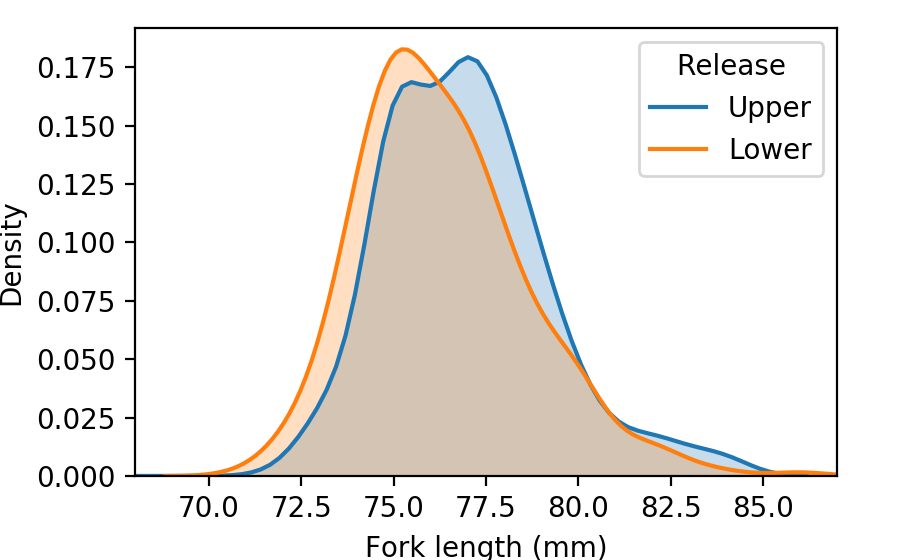
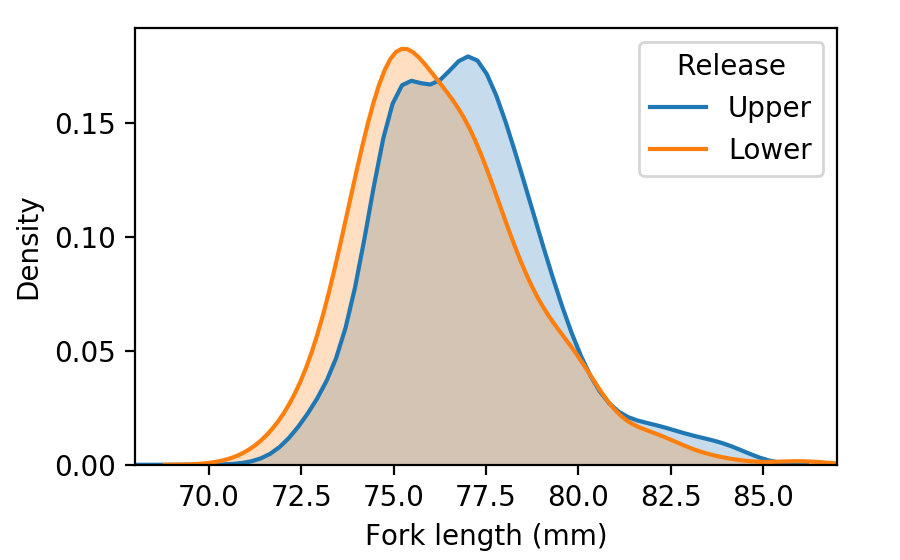
Figure tweaks

diff --git a/manuscripts/swimming/fig-study-area/fig_study_area.py b/manuscripts/swimming/fig-study-area/fig_study_area.py
@@ -9,20 +9,26 @@ Study area figure
   Distance scale - done
 """
 from stompy import utils
-from stompy.spatial import field, wkb2shp
+from stompy.spatial import field, wkb2shp, proj_utils
 import stompy.plot.cmap as scmap
 from stompy.plot import plot_wkb, plot_utils
 from stompy.grid import unstructured_grid
 import pandas as pd
 import matplotlib.pyplot as plt
+from matplotlib import cm
 import numpy as np
+from shapely import ops
 ##
 
-cm_topobathy=scmap.load_gradient('BlueYellowRed.cpt')
+upper_ll=[-120.930408, 37.309940]
+lower_ll=[-121.271098, 37.691794]
+release_xy=proj_utils.mapper('WGS84','EPSG:26910')( [upper_ll,lower_ll] )
+
+    
 
 ##
 
-dem_mrg=field.MultiRasterField(["../../../bathy/junction-composite-dem-no_adcp.tif",
+dem_mrg=field.MultiRasterField(["../../../bathy/junction-composite-20200605-w_smooth.tif",
                                 "/home/rusty/data/bathy_dwr/gtiff/dem_bay_delta_10m_v3_20121109_2.tif"])
 clip=(646390., 648336., 4184677., 4187210.)
 dem=dem_mrg.extract_tile(clip)
@@ -34,7 +40,8 @@ aerial.F=aerial.F[:,:,:3] # drop alpha - seems mis-scaled
 
 ##
 
-grid=unstructured_grid.UnstructuredGrid.read_ugrid("../../../model/grid/snubby_junction/snubby-06.nc")
+#grid=unstructured_grid.UnstructuredGrid.read_ugrid("../../../model/grid/snubby_junction/snubby-06.nc")
+grid=unstructured_grid.UnstructuredGrid.read_ugrid("../../../model/suntans/snubby-08-edit60-with_bathysmooth.nc")
 grid_poly=grid.boundary_polygon()
 
 ##
@@ -50,6 +57,24 @@ ca_shp=wkb2shp.shp2geom("../../../gis/CA_State/CA_State_TIGER2016.shp",
 
 sfe_poly=wkb2shp.shp2geom("../../../gis/dem_to_shoreline/shoreline_from_dem.shp")
 
+# Extend further into ocean
+ca_mpoly=ca_shp['geom'][0].buffer(-5556)
+ocean_poly=ca_mpoly.envelope.difference(ca_mpoly)
+
+sfe_geom = sfe_poly['geom'][0].union(ocean_poly)
+
+##
+
+# Extend SJ River
+ca_rivers=wkb2shp.shp2geom("../../../gis/CA_State/hydro/CaliforniaHydro.shp",
+                           target_srs='EPSG:26910')
+sel=(ca_rivers['NAME']=='San Joaquin River') # |(ca_rivers['NAME']=='Sacramento River')
+river_geoms=ca_rivers['geom'][sel]
+
+river_polys=[g.buffer(50.0,resolution=4) for g in river_geoms]
+river_poly=ops.cascaded_union(river_polys)
+
+sfe_geom=sfe_geom.union( river_poly )
 
 ##
 
@@ -75,15 +100,22 @@ dem_mask=dem.polygon_mask(grid_poly)
 dem_clip=dem.copy()
 dem_clip.F=dem.F.copy()
 dem_clip.F[~dem_mask]=np.nan
+
+#cm_topobathy=scmap.load_gradient('BlueYellowRed.cpt')
+cm_topobathy=scmap.transform_color(lambda rgb: 0.8*rgb + 0.2,
+                                   cm.inferno)
+
+
 img=dem_clip.plot(ax=ax,cmap=cm_topobathy)
-img.set_clim([-8,8])
+img.set_clim([-8,4])
 
 ac=aerial.crop(clip).plot(ax=ax,zorder=-2)
 
 grid.plot_edges(lw=0.5,color='k',alpha=0.3,ax=ax)
 
-plt.colorbar(img,cax=cax,label='Bathymetry (m NAVD88)',
-             orientation='horizontal')
+cbar=plt.colorbar(img,cax=cax,label='Bathymetry (m NAVD88)',
+                  orientation='horizontal')
+cbar.set_ticks([-8,-5,-2,1,4])
 
 plot_wkb.plot_wkb(grid_poly,edgecolor='k',lw=1.,zorder=3,ax=ax,facecolor='none')
 
@@ -96,19 +128,28 @@ leg_ax.legend(loc='upper left',
               bbox_to_anchor=[0,0.95],
               handles=ax.lines)
 
-overview_ax=fig.add_axes([0.75,0.6,0.25,0.4])
+overview_ax=fig.add_axes([0.63,0.55,0.37,0.45])
 
-for g in sfe_poly['geom']:
-    plot_wkb.plot_wkb(g,ax=overview_ax,facecolor='0.5',edgecolor='0.5',lw=0.2)
+plot_wkb.plot_wkb(sfe_geom,ax=overview_ax,facecolor='0.5',edgecolor='0.5',lw=0.2)
+    
 overview_ax.axis('equal')
 overview_ax.xaxis.set_visible(0)
 overview_ax.yaxis.set_visible(0)
-overview_ax.axis( (527837.3924315241, 660621.9552166094, 4135200.7018334204, 4298627.856030448) )
 
 x=0.5*(zoom[0]+zoom[1])
 y=0.5*(zoom[2]+zoom[3])
-overview_ax.plot( [x], [y], 'r*')
+overview_ax.plot( [x], [y], 'r*',ms=7)
 
+# Add release locations in the inset.
+overview_ax.plot( [ release_xy[0,0]], [release_xy[0,1]],'bv')
+overview_ax.plot( [ release_xy[1,0]], [release_xy[1,1]],'bv')
+overview_ax.annotate("Upper\nrelease", release_xy[0,:] + np.r_[-5000,0],
+                     ha='right')
+overview_ax.annotate("Lower\nrelease", release_xy[1,:] + np.r_[-4000,0],
+                     ha='right',va='top')
+overview_ax.annotate( "Study\nsite", [x+6000,y])
+
+overview_ax.axis( (527837., 690000., 4131000., 4269000) )
 
 # A few geographic labels
 # Better done in inkscape, but try it here...
@@ -125,6 +166,11 @@ ax.text(647300, 4185950.,r'San Joaquin R. $\rightarrow$',
 plot_utils.scalebar([0.55,0.03],dy=0.02,L=500,ax=ax,
                     fractions=[0,0.2,0.4,1.0],
                     label_txt='m',
+                    style='ticks',
+                    lw=1.25,
                     xy_transform=ax.transAxes)
 
 fig.savefig('fig_study_area.png',dpi=200)
+
+##
+

diff --git a/manuscripts/swimming/fig-forklength/fig_forklength.py b/manuscripts/swimming/fig-forklength/fig_forklength.py
@@ -19,6 +19,6 @@ ax.set_ylabel("Density")
 ax.set_xlabel("Fork length (mm)")
 ax.axis(xmin=68,xmax=87)
 ax.legend(loc='upper right',title='Release')
-fig.subplots_adjust(bottom=0.15,left=0.15,top=0.95,right=0.93)
+fig.subplots_adjust(bottom=0.17,left=0.15,top=0.95,right=0.93)
 
 fig.savefig('fork-length.png',dpi=200)
